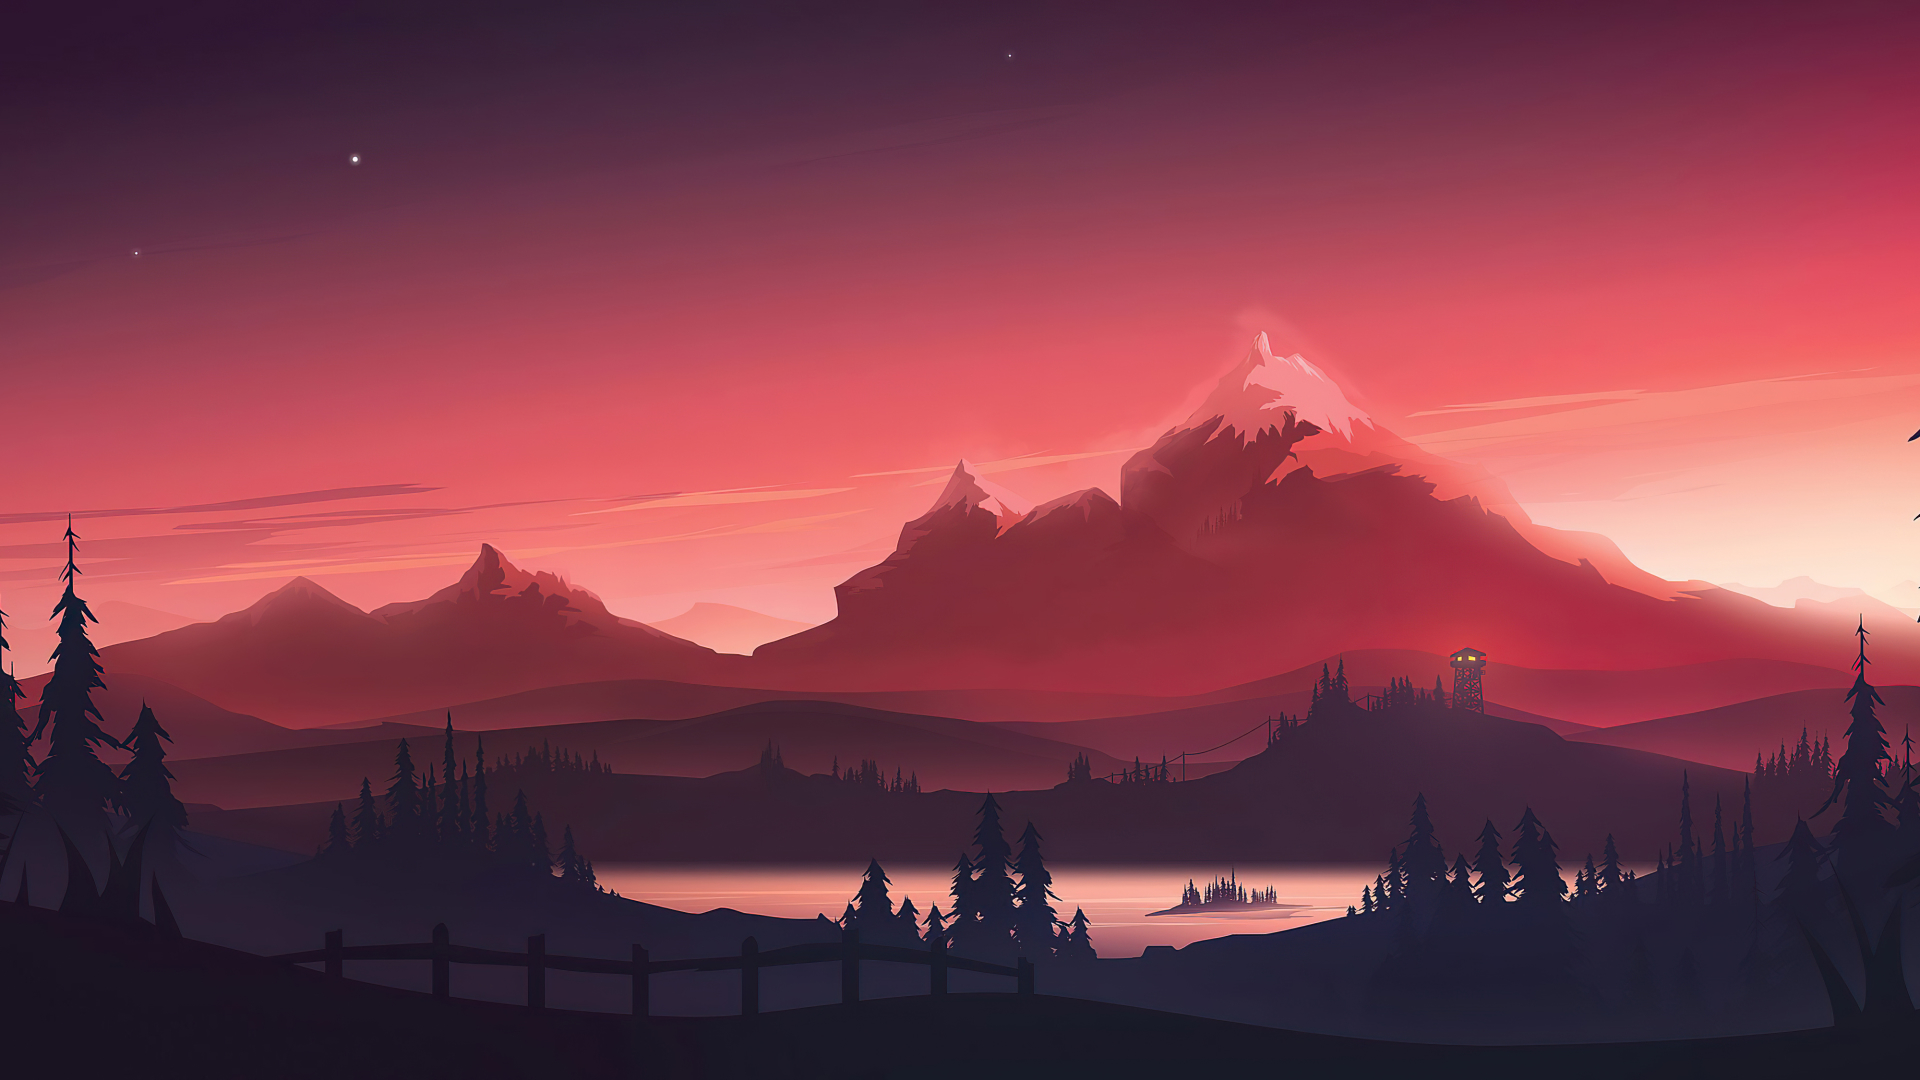
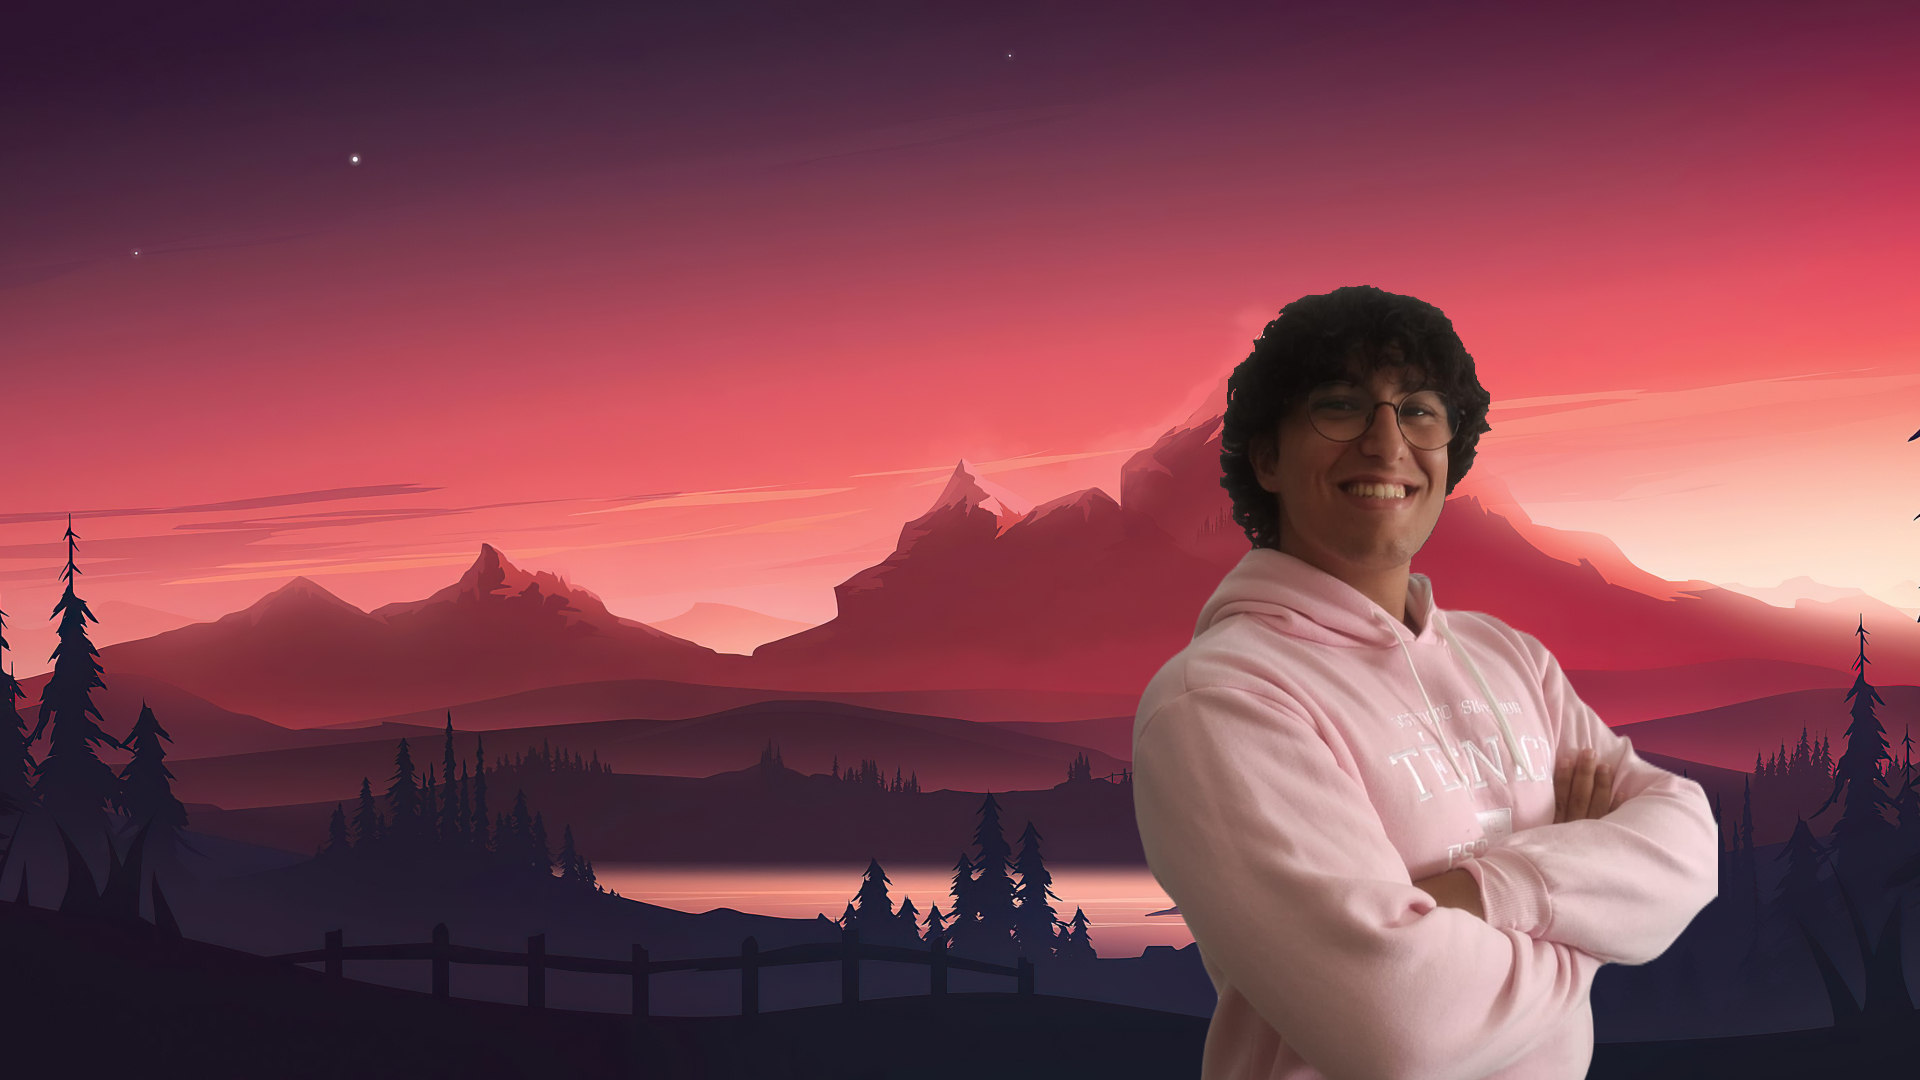
final?

Changed region(s): [[0.5625, 0.2444, 0.9062, 1.0]]

diff --git a/style.css b/style.css
@@ -88,28 +88,6 @@ nav ul li a:hover::after{
     color: #ff004f;
 }
 
-.circular-border {
-    position: absolute;
-    top: 50%;
-    right: 200px;
-    transform: translate(0, -50%);
-    border-radius: 50%;
-    overflow: hidden;
-    width: 580px;
-    height: 580px;
-    border: 2px solid #ccc;
-    transition: border-color 0.3s ease-in-out;
-  }
-
-.circular-border:hover {
-    border-color: red; /* Change border color to red on hover */
-}
-  
-.circular-border img {
-    width: 100%;
-    height: 100%;
-    object-fit: cover;
-}
 
 /* ------ About ------ */
 
@@ -222,7 +200,7 @@ nav ul li a:hover::after{
     border-radius: 10px;
     position: relative;
     overflow: hidden;
-    height: 300px;
+    height: 260px;
 }
 
 .work img{

diff --git a/index.html b/index.html
@@ -31,9 +31,6 @@
             <p>Networks Engineering Student</p>
             <h1>Hello, I'm <span>Tomás</span> <br>Taborda from Portugal</h1>
         </div>
-        <div class="circular-border">
-            <img src="images/me.jpeg" alt="My Image">
-        </div>
     </div>
 </div>
 
@@ -42,7 +39,7 @@
     <div class="container"> 
         <div class="row">
             <div class="about-col-1">
-                <img src="images/me2.jpg">
+                <img src="images/3.jpg">
             </div>
             <div class="about-col-2">
                 <h1 class="sub-title">About Me</h1>
